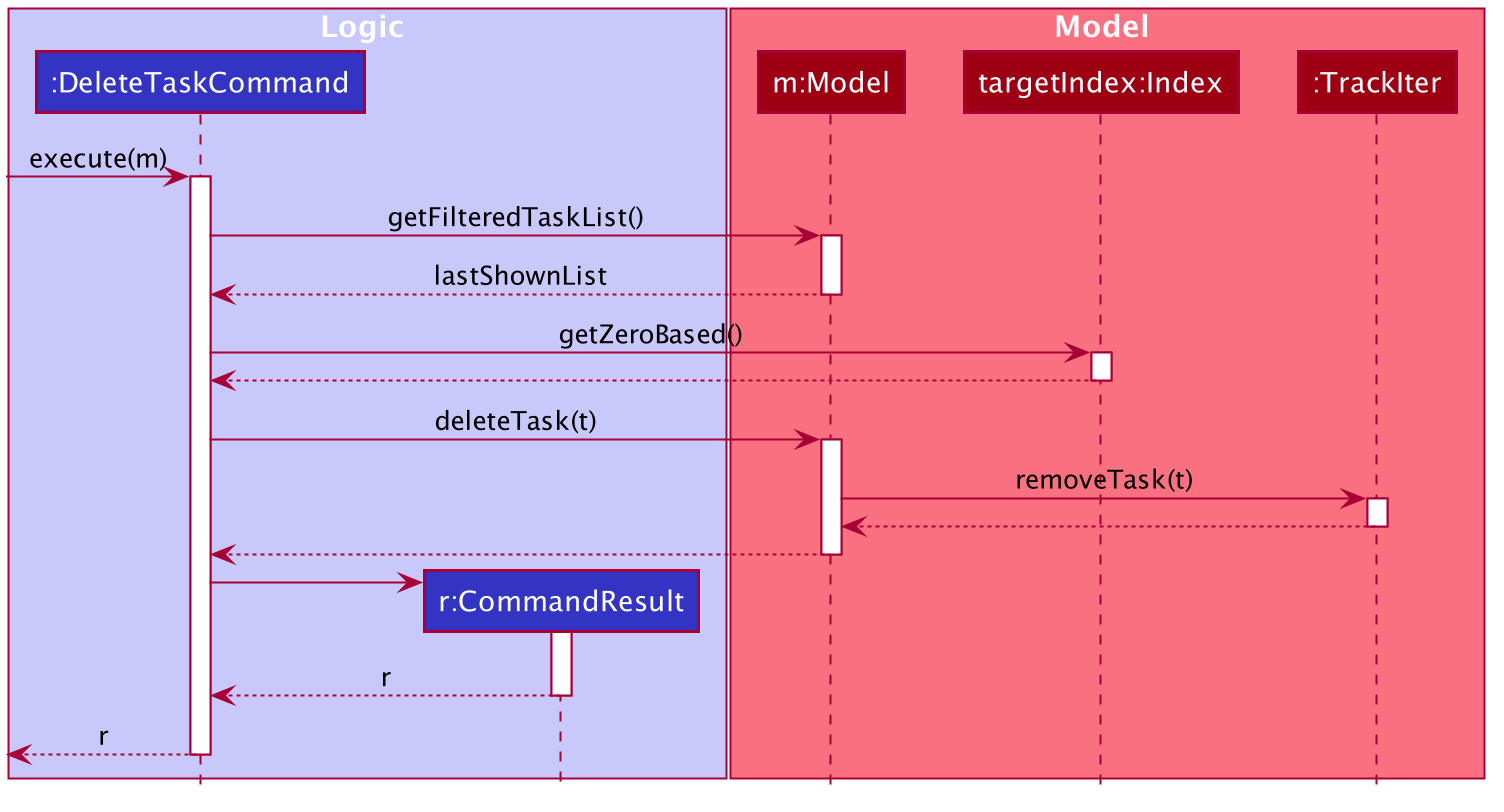
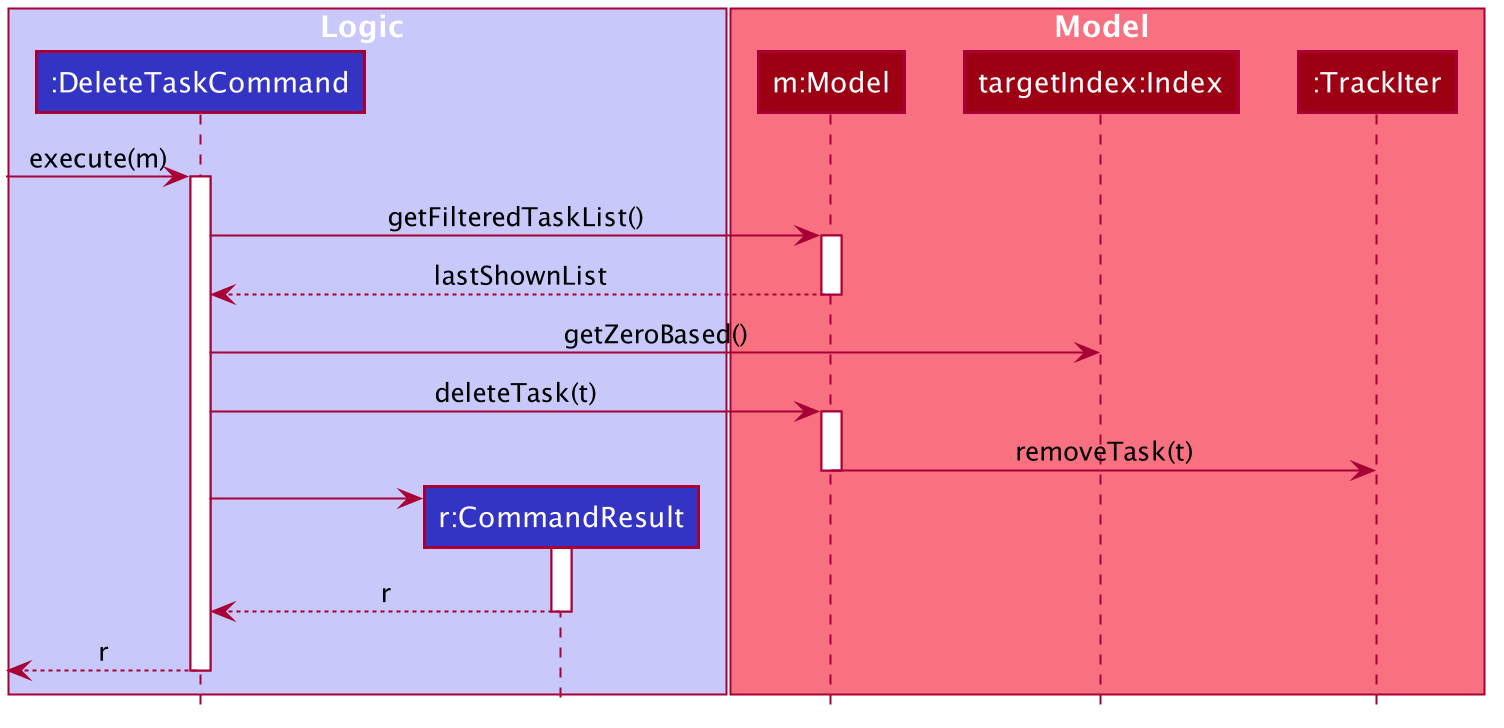
Improve sequence diagrams

diff --git a/docs/DeveloperGuide.md b/docs/DeveloperGuide.md
@@ -325,6 +325,13 @@ In this section, we will outline the key operations of the Module Manager, namel
 * `AddModuleCommand`
 * `DeleteModuleCommand`
 * `EditModuleCommand`
+
+Before we begin, it is important for us to define 1 key term: **association**:
+
+:information_source: A lesson/task is associated with a module if its **code** field is equal to the
+ module's **code**.
+ 
+:information_source: A contact is associated with a module if it contains that module's code as 1 of its tags
  
 The add, delete, and edit commands are all implemented in similar ways. When they are executed they will:
  * call on the relevant Model methods
@@ -447,13 +454,11 @@ The add, delete, and edit commands are all implemented in similar ways. When the
 
 The following steps will describe the execution of the `AddTaskCommand`, assuming no errors are encountered:
  
-1. When `AddTaskCommand` is executed, it will first call the model's `hasTask` method 
-2. This is to ensure that the task does not yet exist in the app
-3. Following this, if the task is added with a non-null module code, it will call the model's
-  `hasModule` method 
-4. This is to ensure that the specified module exists
-5. If both these checks pass, `AddTaskCommand` will call the model's `addTask` method.
-6. The model will then call the `addTask` method of TrackIter, and adds the task to the app.
+1. When `AddTaskCommand` is executed, it will first call the model's `hasTask` method to ensure that the task does not yet exist in the app
+2. Following this, if the task is added with a non-null module code, it will call the model's
+  `hasModule` method to ensure that the specified module exists
+3. If both these checks pass, `AddTaskCommand` will call the model's `addTask` method.
+4. The model will then call the `addTask` method of TrackIter, and adds the task to the app.
 
 ![Add Task Activity Diagram](images/AddTaskActivityDiagram.png)
 
@@ -463,13 +468,11 @@ The following shows the sequence diagram of the `AddTaskCommand`.
 
 The following steps will describe the execution of the `DeleteTaskCommand`, assuming no errors are encountered:
 
-1. When the `DeleteTaskCommand` is executed, it will first call the model's `getFilteredTaskList` method 
-2. This is to determine the last shown list of tasks
-3. Then, it will call the index's `getZeroBased` method 
-4. This is to find the zero-based index of the task it must delete
-5. Then, it will check if this index is within range
-6. If it is, it calls the model's `deleteTask` method.
-7. The model will then call the `removeTask` method of TrackIter, which deletes the task in question from the app.
+1. When the `DeleteTaskCommand` is executed, it will first call the model's `getFilteredTaskList` method to determine the last shown list of tasks
+2. Then, it will call the index's `getZeroBased` method to find the zero-based index of the task it must delete
+3. Then, it will check if this index is within range
+4. If it is, it calls the model's `deleteTask` method.
+5. The model will then call the `removeTask` method of TrackIter, which deletes the task in question from the app.
 
 ![Delete Task Activity Diagram](images/DeleteTaskActivityDiagram.png)
 
@@ -479,13 +482,11 @@ The following shows the sequence diagram of the `DeleteTaskCommand`.
 
 The following steps will describe the execution of the `EditTaskCommand`, assuming no errors are encountered:
 
-1. When the `EditTaskCommand` is executed, it will first call the model's `getFilteredTaskList` method
-2. This is to determine the last shown list of tasks
-3. Then, it will call the index's `getZeroBased` method 
-4. This is to find the zero-based index of the task we must edit
-5. It will then check if the index is within range
-6. If it is, it calls the model's `setTask` method
-7. The model will then call the `setTask` method of TrackIter, which replaces the original task with the edited
+1. When the `EditTaskCommand` is executed, it will first call the model's `getFilteredTaskList` method to determine the last shown list of tasks
+2. Then, it will call the index's `getZeroBased` method to find the zero-based index of the task we must edit
+3. It will then check if the index is within range
+4. If it is, it calls the model's `setTask` method
+5. The model will then call the `setTask` method of TrackIter, which replaces the original task with the edited
  version in the app.
  
 ![Edit Task Command Activity Diagram](images/EditTaskCommandActivityDiagram.png)
